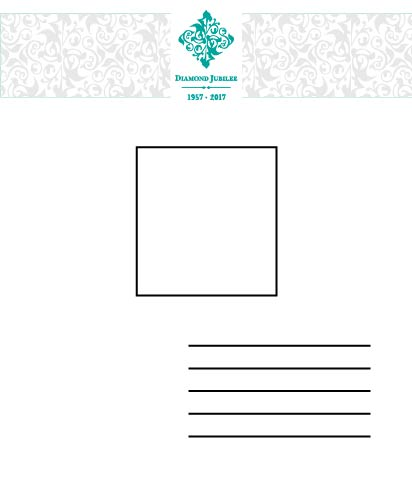
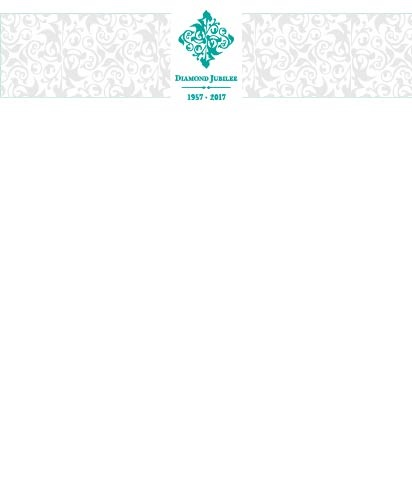
new layout before finalization

diff --git a/src/main/java/com/system/demo/volunteer/printer/CardPrinter.java b/src/main/java/com/system/demo/volunteer/printer/CardPrinter.java
@@ -32,14 +32,20 @@ public class CardPrinter {
     int pageWidth = 530;
     int pageHeight = 800;
     int titlefontSize = 11;
-    int smallfontSize = 9;
+    int namefontSize = 12;
+    int smallfontSize = 10;
+    int zonefontSize = 15;
     Random rand = new Random();
 
     String PDF_PW =  Integer.toString(rand.nextInt(9999) + 1000);// "1423";
 
-    public Font smallfont = new Font(Font.FontFamily.TIMES_ROMAN, smallfontSize, -1,
+    public Font smallfont = new Font(Font.FontFamily.TIMES_ROMAN, smallfontSize, Font.BOLD,
         BaseColor.BLACK);
-    public Font titleFont = new Font(Font.FontFamily.TIMES_ROMAN, titlefontSize, -1,
+    public Font namefont = new Font(Font.FontFamily.TIMES_ROMAN, namefontSize, Font.BOLD,
+        BaseColor.BLACK);
+    public Font titleFont = new Font(Font.FontFamily.TIMES_ROMAN, titlefontSize, Font.BOLD,
+        BaseColor.BLACK);
+    public Font zoneFont = new Font(Font.FontFamily.TIMES_ROMAN, zonefontSize, Font.BOLD,
         BaseColor.BLACK);
 
 
@@ -54,13 +60,14 @@ public class CardPrinter {
 
 
 
-        String fileName = "C:\\Users\\Mohsin Kerai\\Documents\\kachra\\"+PDF_PW+".pdf";
+        //String fileName = "C:\\Users\\Mohsin Kerai\\Documents\\kachra\\"+PDF_PW+".pdf";
+        String fileName = "D:\\"+PDF_PW+".pdf";
         // Step-2: Create PdfWriter object for the document
         PdfWriter writer = PdfWriter
             .getInstance(qr_code_Example, new FileOutputStream(fileName));
 
-        String userPassword = "123";
-        String ownerPassword = "123";
+      //  String userPassword = "123";
+      //  String ownerPassword = "123";
 
 //        writer.setEncryption(userPassword.getBytes(),
 //            ownerPassword.getBytes(), PdfWriter.ALLOW_PRINTING,
@@ -224,11 +231,93 @@ public class CardPrinter {
     }
 
 
-
-    @Value("${file.path.zip.extract}")
-    private String zipExtractionFolder;
-
     public void CreateCard(Document qr_code_Example, String EncryptMsg, PdfWriter writer,
+        float cardStartX, float cardStartY, float ratio, Volunteer volunteer) throws Exception {
+        String imageUrl = getBackgroundImage(volunteer.getDutyZone()); // "D://inner cordon.jpg";
+        Image jpg = Image.getInstance(imageUrl);
+        jpg.scalePercent(ratio);
+        cardStartY = cardStartY - jpg.getScaledHeight();
+
+        jpg.setAbsolutePosition(cardStartX, cardStartY);
+        jpg.setBorder(Rectangle.BOX);
+        jpg.setBorderColor(BaseColor.BLACK);
+        jpg.setBorderWidth(2f);
+
+        qr_code_Example.add(jpg);
+
+        Image qr_image = getQRImage(EncryptMsg, writer);
+        qr_image.setAbsolutePosition(
+            cardStartX + 10,
+            cardStartY + 90);
+        qr_image.scalePercent(65);
+        qr_code_Example.add(qr_image);
+
+        imageUrl = volunteer.getVolunteerImage();//"D://person.jpg";
+        jpg = Image.getInstance(imageUrl);
+        jpg.scaleAbsolute(64f, 64f);
+        jpg.setAbsolutePosition(cardStartX + 104, cardStartY + 100);
+        qr_code_Example.add(jpg);
+
+        PdfContentByte cb = writer.getDirectContent();
+        ColumnText ct = new ColumnText(cb);
+        Phrase myText = new Phrase( (volunteer.getVolunteerName()!=null)?volunteer.getVolunteerName().toUpperCase() : "" , namefont);
+        ct.setSimpleColumn(myText, cardStartX - 73, cardStartY + 66,
+            cardStartX + (pageWidth / 2), cardStartY + 82, 6, Element.ALIGN_CENTER);
+        ct.go();
+
+        myText = new Phrase( (volunteer.getVolunteerCommittee()!=null)?volunteer.getVolunteerCommittee() : "" , smallfont);
+        ct.setSimpleColumn(myText, cardStartX - 73, cardStartY + 56,
+            cardStartX + (pageWidth / 2), cardStartY + 66, 6, Element.ALIGN_CENTER);
+        ct.go();
+
+        myText = new Phrase( (volunteer.getVolunteerCnic()!=null)?volunteer.getVolunteerCnic(): "" , smallfont);
+        ct.setSimpleColumn(myText, cardStartX - 73, cardStartY + 43,
+            cardStartX + (pageWidth / 2), cardStartY + 53, 6, Element.ALIGN_CENTER);
+        ct.go();
+
+        //local council
+        myText = new Phrase( (volunteer.getLocalCouncil()!=null)?volunteer.getLocalCouncil(): "" , smallfont);
+        ct.setSimpleColumn(myText, cardStartX - 73, cardStartY + 30,
+            cardStartX + (pageWidth / 2), cardStartY + 40, 6, Element.ALIGN_CENTER);
+        ct.go();
+
+        //Zone
+        myText = new Phrase( (volunteer.getDutyZone()!=null)?volunteer.getDutyZone().toUpperCase(): "" , zoneFont);
+        ct.setSimpleColumn(myText, cardStartX - 73, cardStartY - 10,
+            cardStartX + (pageWidth / 2), cardStartY + 22, 6, Element.ALIGN_CENTER);
+        ct.go();
+
+        //Header title
+        myText = new Phrase( (volunteer.getVolunteerSite()!=null)?volunteer.getVolunteerSite().toUpperCase(): "" , titleFont);
+        ct.setSimpleColumn(myText, cardStartX - 73, cardStartY + 162, cardStartX + (pageWidth / 2),
+            cardStartY + 175, 6, Element.ALIGN_CENTER);
+        ct.go();
+    }
+
+    public Image getQRImage(String EncryptMsg, PdfWriter writer) throws Exception {
+        BarcodeQRCode my_code = new BarcodeQRCode(EncryptMsg, 150, 150, null);
+        //Step-6: Get Image corresponding to the input string
+        Image qr_image = my_code.getImage();
+
+        qr_image = cropImage(writer, qr_image, 10, 10, 10, 10);
+
+        return qr_image;
+    }
+
+    public Image cropImage(PdfWriter writer, Image image, float leftReduction, float rightReduction,
+        float topReduction, float bottomReduction) throws DocumentException {
+        float width = image.getScaledWidth();
+        float height = image.getScaledHeight();
+        PdfTemplate template = writer.getDirectContent().createTemplate(
+            width - leftReduction - rightReduction,
+            height - topReduction - bottomReduction);
+        template.addImage(image,
+            width, 0, 0,
+            height, -leftReduction, -bottomReduction);
+        return Image.getInstance(template);
+    }
+
+    /*public void CreateCard(Document qr_code_Example, String EncryptMsg, PdfWriter writer,
         float cardStartX, float cardStartY, float ratio, Volunteer volunteer) throws Exception {
         String imageUrl = getBackgroundImage(volunteer.getDutyZone()); // "D://inner cordon.jpg";
         Image jpg = Image.getInstance(imageUrl);
@@ -286,28 +375,5 @@ public class CardPrinter {
         ct.setSimpleColumn(myText, cardStartX - 73, cardStartY + 160, cardStartX + (pageWidth / 2),
             cardStartY + 170, 6, Element.ALIGN_CENTER);
         ct.go();
-    }
-
-    public Image getQRImage(String EncryptMsg, PdfWriter writer) throws Exception {
-        BarcodeQRCode my_code = new BarcodeQRCode(EncryptMsg, 150, 150, null);
-        //Step-6: Get Image corresponding to the input string
-        Image qr_image = my_code.getImage();
-
-        qr_image = cropImage(writer, qr_image, 10, 10, 10, 10);
-
-        return qr_image;
-    }
-
-    public Image cropImage(PdfWriter writer, Image image, float leftReduction, float rightReduction,
-        float topReduction, float bottomReduction) throws DocumentException {
-        float width = image.getScaledWidth();
-        float height = image.getScaledHeight();
-        PdfTemplate template = writer.getDirectContent().createTemplate(
-            width - leftReduction - rightReduction,
-            height - topReduction - bottomReduction);
-        template.addImage(image,
-            width, 0, 0,
-            height, -leftReduction, -bottomReduction);
-        return Image.getInstance(template);
-    }
+    }*/
 }
